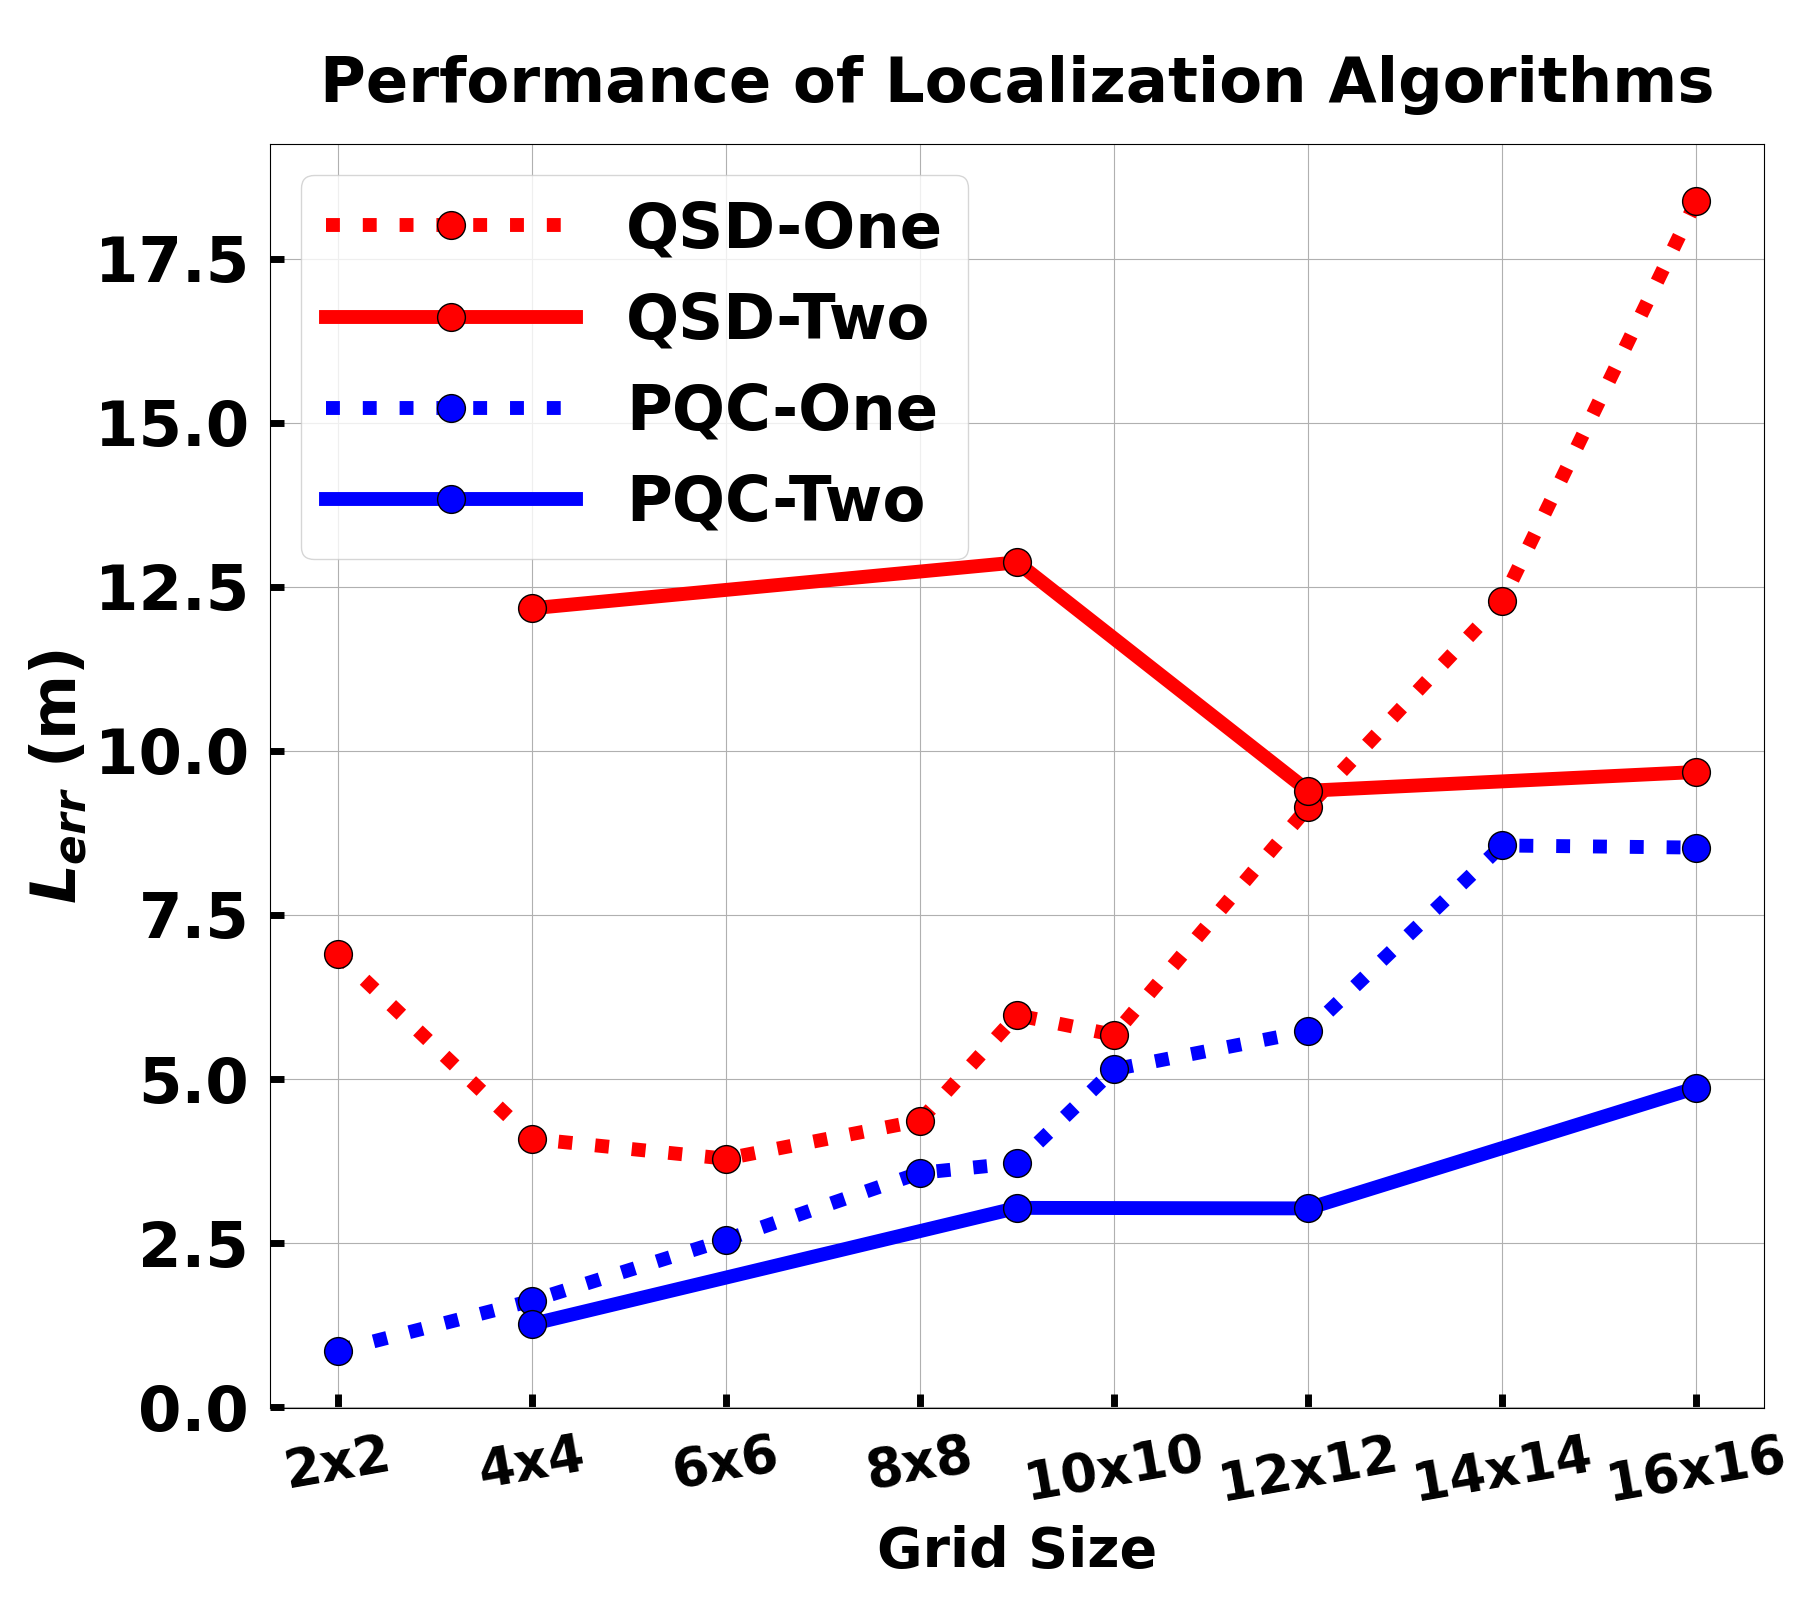
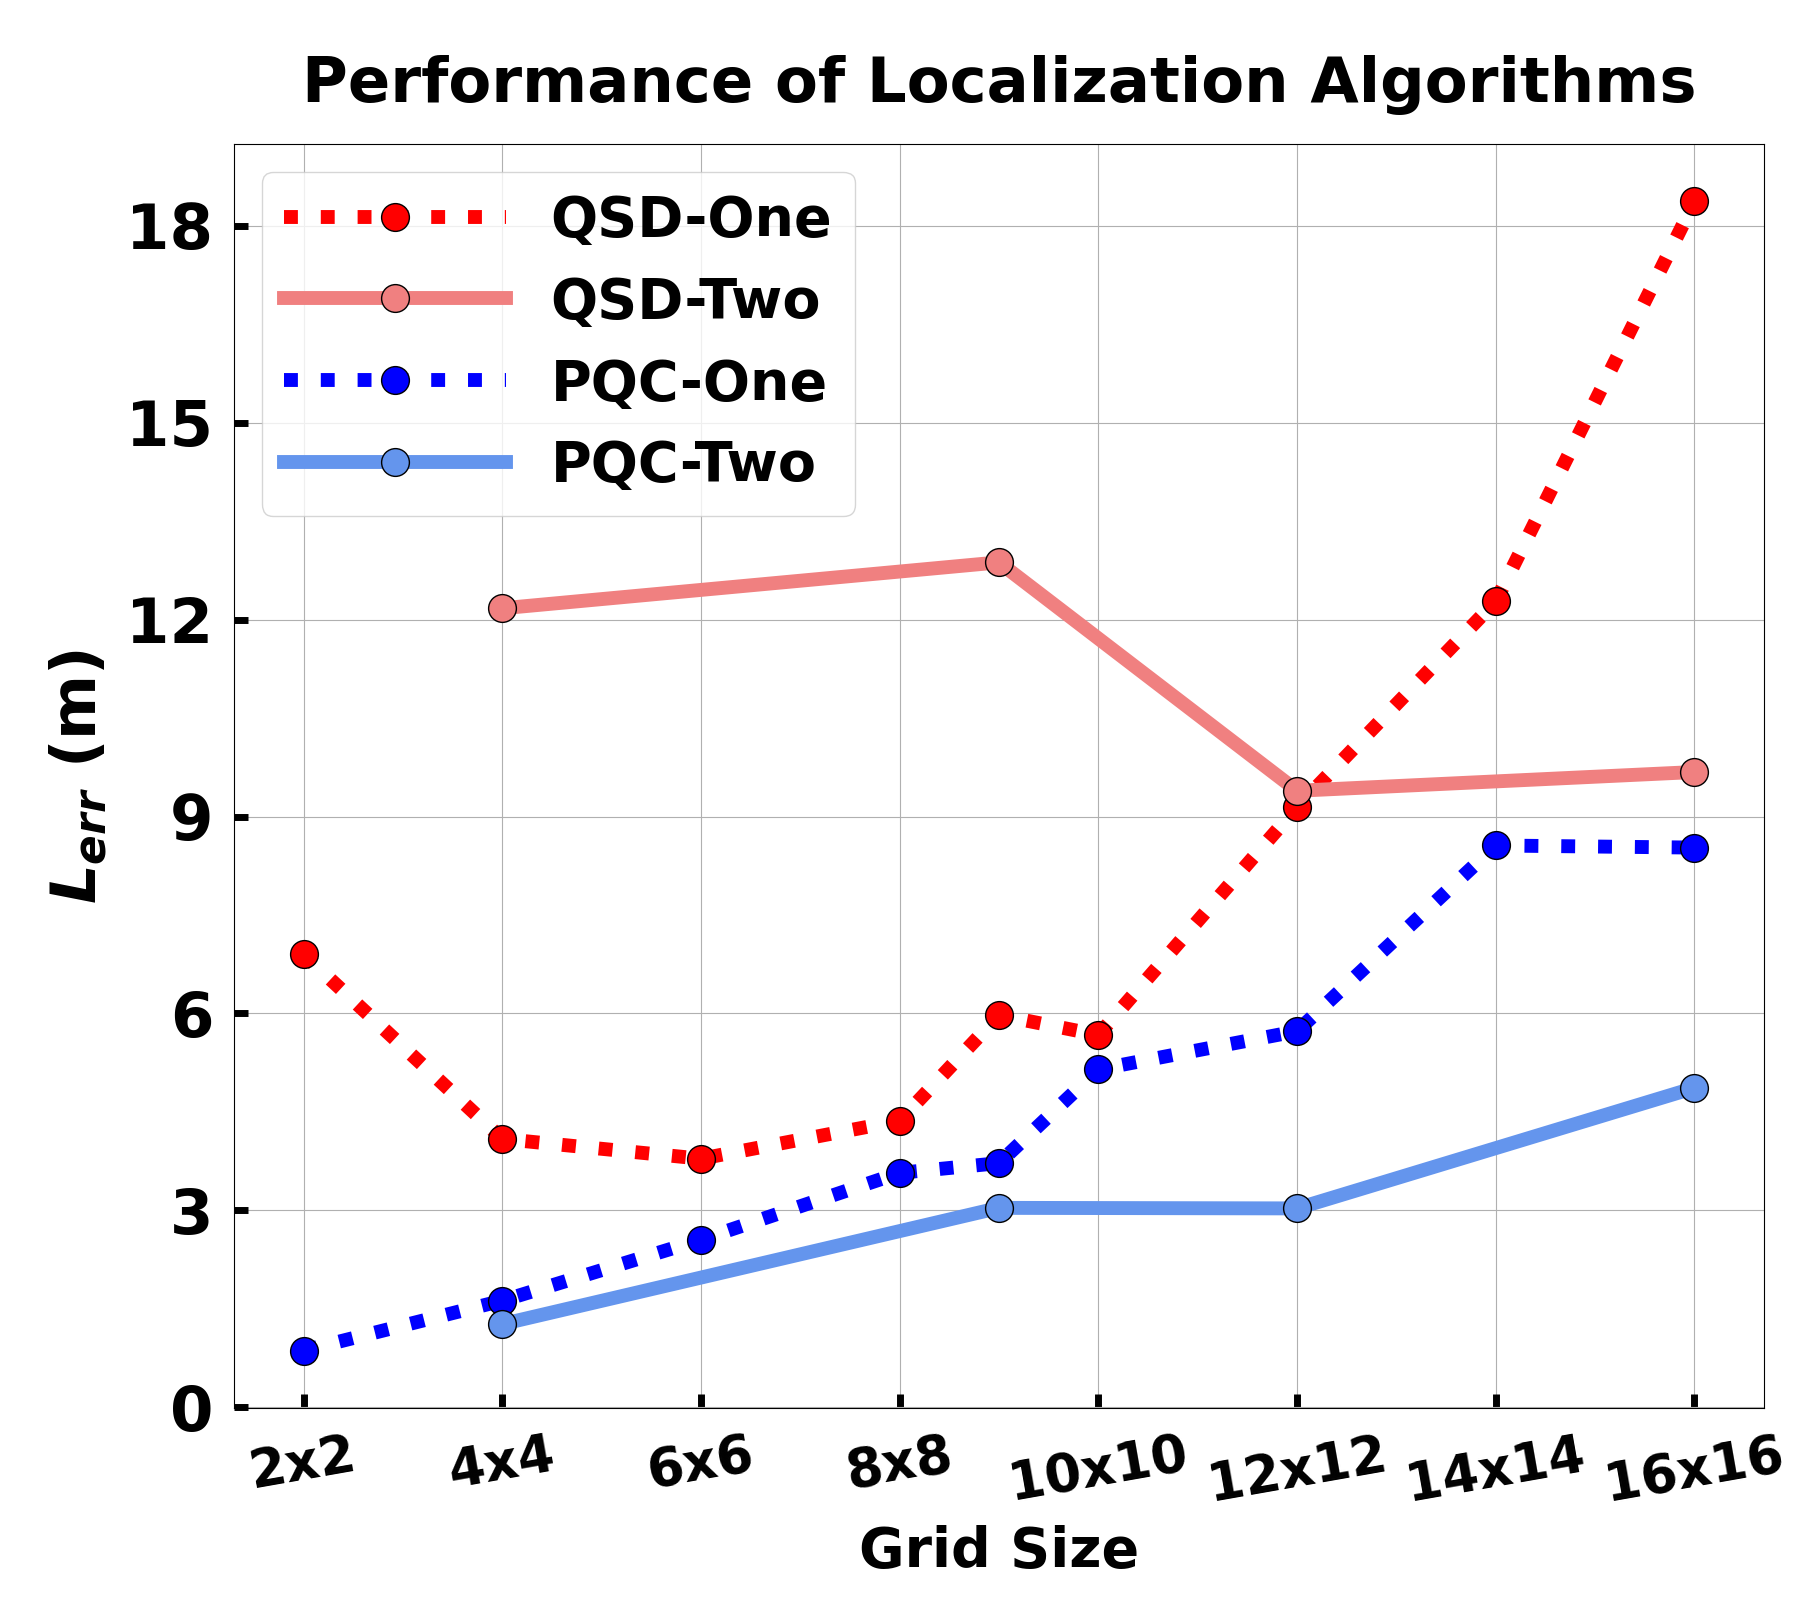
update on plots

diff --git a/plot.py b/plot.py
@@ -22,7 +22,7 @@ class Plot:
     _COLOR  = ['r',           'lightcoral', 'b',     'cornflowerblue', 'b',       'cornflowerblue']
     COLOR   = dict(zip(METHOD, _COLOR))
 
-    _LINE   = ['-',           '--',       '-',        '--',        '-']
+    _LINE   = ['-',           '--',       '-',        '--',             '-',      '--']
     LINE    = dict(zip(METHOD, _LINE))
 
 
@@ -252,22 +252,24 @@ class Plot:
         # step 2: plotting
         l_err = "$L_{err}$"
         fig, ax1 = plt.subplots(1, 1, figsize=(18, 16))
-        fig.subplots_adjust(left=0.15, right=0.98, top=0.91, bottom=0.12, wspace=0.13)
+        fig.subplots_adjust(left=0.13, right=0.98, top=0.91, bottom=0.12, wspace=0.13)
         ax1.plot(X_one, povmloc_one, linestyle=':', marker='o', label=Plot.LEGEND['povmloc-one'], mec='black', color=Plot.COLOR['povmloc-one'])
-        ax1.plot(X_two, povmloc,     linestyle='-', marker='o', label=Plot.LEGEND['povmloc'],     mec='black', color=Plot.COLOR['povmloc-one'])
+        ax1.plot(X_two, povmloc,     linestyle='-', marker='o', label=Plot.LEGEND['povmloc'],     mec='black', color=Plot.COLOR['povmloc'])
         ax1.plot(X_one, qml_r_one,   linestyle=':', marker='o', label=Plot.LEGEND['qml-r'],       mec='black', color=Plot.COLOR['qml-r'])
-        ax1.plot(X_two, qml_r_two,   linestyle='-', marker='o', label=Plot.LEGEND['qml-r-two'],   mec='black', color=Plot.COLOR['qml-r'])
+        ax1.plot(X_two, qml_r_two,   linestyle='-', marker='o', label=Plot.LEGEND['qml-r-two'],   mec='black', color=Plot.COLOR['qml-r-two'])
         # ax1
-        ax1.legend(ncol=1, handlelength=4, loc='upper left')
+        ax1.legend(ncol=1, handlelength=4, loc='upper left', fontsize=40)
         ax1.set_xlabel('Grid Size', labelpad=10, fontsize=40)
         ax1.grid(True)
         X = list(X_one)
         X.remove(9)
         ax1.set_xticks(X)
         ax1.set_xticklabels([f'{int(x)}x{int(x)}' for x in X])
+        Y = list(range(0, 19, 3))
+        ax1.set_yticks(Y)
         ax1.tick_params(axis='x', pad=15, direction='in', length=10, width=5, labelsize=38, rotation=10)
         ax1.tick_params(axis='y', pad=15, direction='in', length=10, width=5)
-        ax1.set_ylabel(f'{l_err} (m)')
+        ax1.set_ylabel(f'{l_err} (m)', labelpad=12)
         # ax1.set_ylim([0, 40])
         ax1.set_title(f'Performance of Localization Algorithms', pad=30, fontsize=45, fontweight='bold')
         fig.savefig(figname)
@@ -324,60 +326,6 @@ class Plot:
         ax1.tick_params(axis='x', pad=15, length=10, width=5)
         ax1.tick_params(axis='y', pad=15, direction='in', length=10, width=5)
         ax1.set_ylabel(f'{l_err} (m)', labelpad=20)
-        ax1.set_title(f'Localization Performance in a 16x16 Grid', pad=30, fontsize=45, fontweight='bold')
-        fig.savefig(figname)
-
-
-    @staticmethod
-    def discrete_varysensornum(data: list, figname: str):
-        # step 1.1: prepare accuracy data for QSD-One and PQC-One
-        reduce = Plot.reduce_average
-        grid_length = 16
-        table = defaultdict(list)
-        for myinput, output_by_method in data:
-            if myinput.grid_length != grid_length:
-                continue
-            for method, output in output_by_method.items():
-                table[myinput.sensor_num].append({method: output.correct})
-        
-        print('\nVarying Sensor #')
-        print_table = []
-        methods = ['povmloc-one', 'povmloc', 'qml-c', 'qml-c-two']
-        for x, list_of_y_by_method in sorted(table.items()):
-            tmp_list = [reduce([(y_by_method[method] if method in y_by_method else None) for y_by_method in list_of_y_by_method]) for method in methods]
-            print_table.append([x] + tmp_list)
-        print(tabulate.tabulate(print_table, headers=['Sensor Number'] + methods))
-        arr = np.array(print_table)
-        povmloc_one = arr[:, 1] * 100
-        povmloc_two = arr[:, 2] * 100
-        qml_r_one   = arr[:, 3] * 100
-        qml_r_two   = arr[:, 4] * 100
-        X_one       = arr[:, 0]
-
-        # step 2: plotting
-        fig, ax1 = plt.subplots(1, 1, figsize=(18, 18))
-        fig.subplots_adjust(left=0.14, right=0.98, top=0.8, bottom=0.11, wspace=0.13)
-        ind = np.arange(len(X_one))
-        width = 0.15
-        pos1 = ind - 1.5*width
-        pos2 = ind - 0.5*width
-        pos3 = ind + 0.5*width
-        pos4 = ind + 1.5*width
-        ax1.bar(pos1, povmloc_one, width=width, edgecolor='black', label=Plot.LEGEND['povmloc-one'], color=Plot.COLOR['povmloc-one'])
-        ax1.bar(pos2, povmloc_two, width=width, edgecolor='black', label=Plot.LEGEND['povmloc'],     color=Plot.COLOR['povmloc'])
-        ax1.bar(pos3, qml_r_one,   width=width, edgecolor='black', label=Plot.LEGEND['qml-c'],       color=Plot.COLOR['qml-c'])
-        ax1.bar(pos4, qml_r_two,   width=width, edgecolor='black', label=Plot.LEGEND['qml-c-two'],   color=Plot.COLOR['qml-c-two'])
-        ax1.grid(True)
-        ax1.legend(ncol=2, handlelength=4, loc='upper center', fontsize=40, bbox_to_anchor=(0.5, 1.28))
-        ax1.set_xlabel('Sensor Number', labelpad=10, fontsize=40)
-        X = list(X_one)
-        ax1.set_xticks(ind)
-        ax1.set_xticklabels([f'{int(x)}' for x in X])
-        ax1.tick_params(axis='x', pad=15, length=10, width=5)
-        ax1.tick_params(axis='y', pad=15, direction='in', length=10, width=5)
-        CC_acc = "$CC_{acc}$"
-        ax1.set_ylim([0, 100])
-        ax1.set_ylabel(f'{CC_acc} (%)', labelpad=10)
         ax1.set_title(f'Localization Performance in a 16x16 Grid', pad=30, fontsize=45, fontweight='bold')
         fig.savefig(figname)
 
@@ -467,16 +415,15 @@ class Plot:
         qml_c_two = arr[:, 2]
         X_two     = arr[:, 0]
 
-
         # step 2: plotting
         fig, ax1 = plt.subplots(1, 1, figsize=(18, 16))
         fig.subplots_adjust(left=0.15, right=0.98, top=0.91, bottom=0.12, wspace=0.13)
         ax1.plot(X_one, povmloc_one, linestyle=':', marker='o', label=Plot.LEGEND['povmloc-one'], mec='black', color=Plot.COLOR['povmloc-one'])
-        ax1.plot(X_two, povmloc,     linestyle='-', marker='o', label=Plot.LEGEND['povmloc'],     mec='black', color=Plot.COLOR['povmloc-one'])
+        ax1.plot(X_two, povmloc,     linestyle='-', marker='o', label=Plot.LEGEND['povmloc'],     mec='black', color=Plot.COLOR['povmloc'])
         ax1.plot(X_one, qml_c_one,   linestyle=':', marker='o', label=Plot.LEGEND['qml-c'],       mec='black', color=Plot.COLOR['qml-c'])
-        ax1.plot(X_two, qml_c_two,   linestyle='-', marker='o', label=Plot.LEGEND['qml-c-two'],   mec='black', color=Plot.COLOR['qml-c'])
+        ax1.plot(X_two, qml_c_two,   linestyle='-', marker='o', label=Plot.LEGEND['qml-c-two'],   mec='black', color=Plot.COLOR['qml-c-two'])
         # ax1
-        ax1.legend(ncol=1, handlelength=4, loc='lower left')
+        ax1.legend(ncol=1, handlelength=4, loc='lower left', fontsize=40)
         ax1.set_xlabel('Grid Size', labelpad=10, fontsize=40)
         ax1.grid(True)
         X = list(X_one)
@@ -489,6 +436,60 @@ class Plot:
         ax1.set_ylabel(f'{CC_acc} (%)')
         # ax1.set_ylim([0, 40])
         ax1.set_title(f'Performance of Localization Algorithms', pad=30, fontsize=45, fontweight='bold')
+        fig.savefig(figname)
+
+
+    @staticmethod
+    def discrete_varysensornum(data: list, figname: str):
+        # step 1.1: prepare accuracy data for QSD-One and PQC-One
+        reduce = Plot.reduce_average
+        grid_length = 16
+        table = defaultdict(list)
+        for myinput, output_by_method in data:
+            if myinput.grid_length != grid_length:
+                continue
+            for method, output in output_by_method.items():
+                table[myinput.sensor_num].append({method: output.correct})
+        
+        print('\nVarying Sensor #')
+        print_table = []
+        methods = ['povmloc-one', 'povmloc', 'qml-c', 'qml-c-two']
+        for x, list_of_y_by_method in sorted(table.items()):
+            tmp_list = [reduce([(y_by_method[method] if method in y_by_method else None) for y_by_method in list_of_y_by_method]) for method in methods]
+            print_table.append([x] + tmp_list)
+        print(tabulate.tabulate(print_table, headers=['Sensor Number'] + methods))
+        arr = np.array(print_table)
+        povmloc_one = arr[:, 1] * 100
+        povmloc_two = arr[:, 2] * 100
+        qml_r_one   = arr[:, 3] * 100
+        qml_r_two   = arr[:, 4] * 100
+        X_one       = arr[:, 0]
+
+        # step 2: plotting
+        fig, ax1 = plt.subplots(1, 1, figsize=(18, 18))
+        fig.subplots_adjust(left=0.14, right=0.98, top=0.8, bottom=0.11, wspace=0.13)
+        ind = np.arange(len(X_one))
+        width = 0.15
+        pos1 = ind - 1.5*width
+        pos2 = ind - 0.5*width
+        pos3 = ind + 0.5*width
+        pos4 = ind + 1.5*width
+        ax1.bar(pos1, povmloc_one, width=width, edgecolor='black', label=Plot.LEGEND['povmloc-one'], color=Plot.COLOR['povmloc-one'])
+        ax1.bar(pos2, povmloc_two, width=width, edgecolor='black', label=Plot.LEGEND['povmloc'],     color=Plot.COLOR['povmloc'])
+        ax1.bar(pos3, qml_r_one,   width=width, edgecolor='black', label=Plot.LEGEND['qml-c'],       color=Plot.COLOR['qml-c'])
+        ax1.bar(pos4, qml_r_two,   width=width, edgecolor='black', label=Plot.LEGEND['qml-c-two'],   color=Plot.COLOR['qml-c-two'])
+        ax1.grid(True)
+        ax1.legend(ncol=2, handlelength=4, loc='upper center', fontsize=40, bbox_to_anchor=(0.5, 1.28))
+        ax1.set_xlabel('Sensor Number', labelpad=10, fontsize=40)
+        X = list(X_one)
+        ax1.set_xticks(ind)
+        ax1.set_xticklabels([f'{int(x)}' for x in X])
+        ax1.tick_params(axis='x', pad=15, length=10, width=5)
+        ax1.tick_params(axis='y', pad=15, direction='in', length=10, width=5)
+        CC_acc = "$CC_{acc}$"
+        ax1.set_ylim([0, 100])
+        ax1.set_ylabel(f'{CC_acc} (%)', labelpad=10)
+        ax1.set_title(f'Localization Performance in a 16x16 Grid', pad=30, fontsize=45, fontweight='bold')
         fig.savefig(figname)
 
 
@@ -588,7 +589,7 @@ if __name__ == '__main__':
     # localization_error_cdf()
 
     discrete_varygrid()
-    discrete_varysensornum()
+    # discrete_varysensornum()
 
 
     # runtime()
